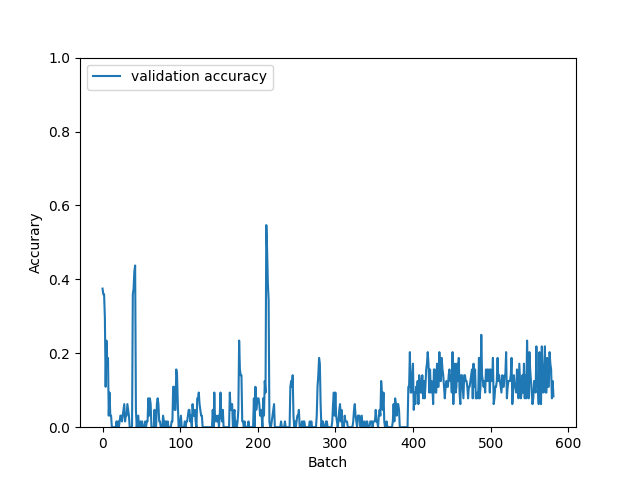
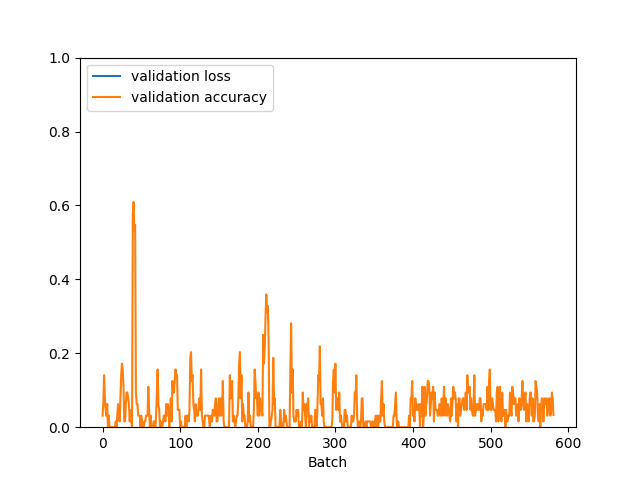
less lr, more epochs

Changed region(s): [[0.1562, 0.4375, 0.875, 0.9062], [0.125, 0.125, 0.4375, 0.2188], [0.0312, 0.4375, 0.0625, 0.5625]]

diff --git a/deep_learning/train.py b/deep_learning/train.py
@@ -8,11 +8,11 @@ from util import *
 def train(model, images, labels, classes):
   model.train()
   loss_function = nn.CrossEntropyLoss()
-  optim = torch.optim.Adam(model.parameters(), lr=0.0001)
+  optim = torch.optim.Adam(model.parameters(), lr=0.00001)
 
   losses, accuracies = [], []
   BS = 64
-  epochs = 100
+  epochs = 150
 
   for epoch in range(epochs):
     print("[+] Epoch %d/%d"%(epoch+1,epochs))
@@ -57,6 +57,8 @@ def train(model, images, labels, classes):
 
 def evaluate(model, device, images, labels, classes):
   model.eval()
+  loss_function = nn.CrossEntropyLoss()
+  losses = []
   accuracies = []
   BS = 64
 
@@ -70,6 +72,9 @@ def evaluate(model, device, images, labels, classes):
     cat = torch.argmax(out, dim=1)
     accuracy = (cat == Y).float().mean()
     accuracy = accuracy.item()
+    loss = loss_function(out, Y).mean()
+    loss = loss.item()
+    losses.append(loss)
     accuracies.append(accuracy)
     t.set_description("accuracy %.2f"%accuracy)
 
@@ -78,9 +83,9 @@ def evaluate(model, device, images, labels, classes):
   print("[+] Average Validation Accuracy: %.2f"%(sum(accuracies)/len(accuracies)))
   plt.figure(1)
   plt.ylim(0, 1)
+  plt.plot(losses, label="validation loss")
   plt.plot(accuracies, label="validation accuracy")
   plt.xlabel("Batch")
-  plt.ylabel("Accurary")
   plt.legend(loc="upper left")
   plt.savefig("../plots/evaluation_stats.png")
   plt.show()
